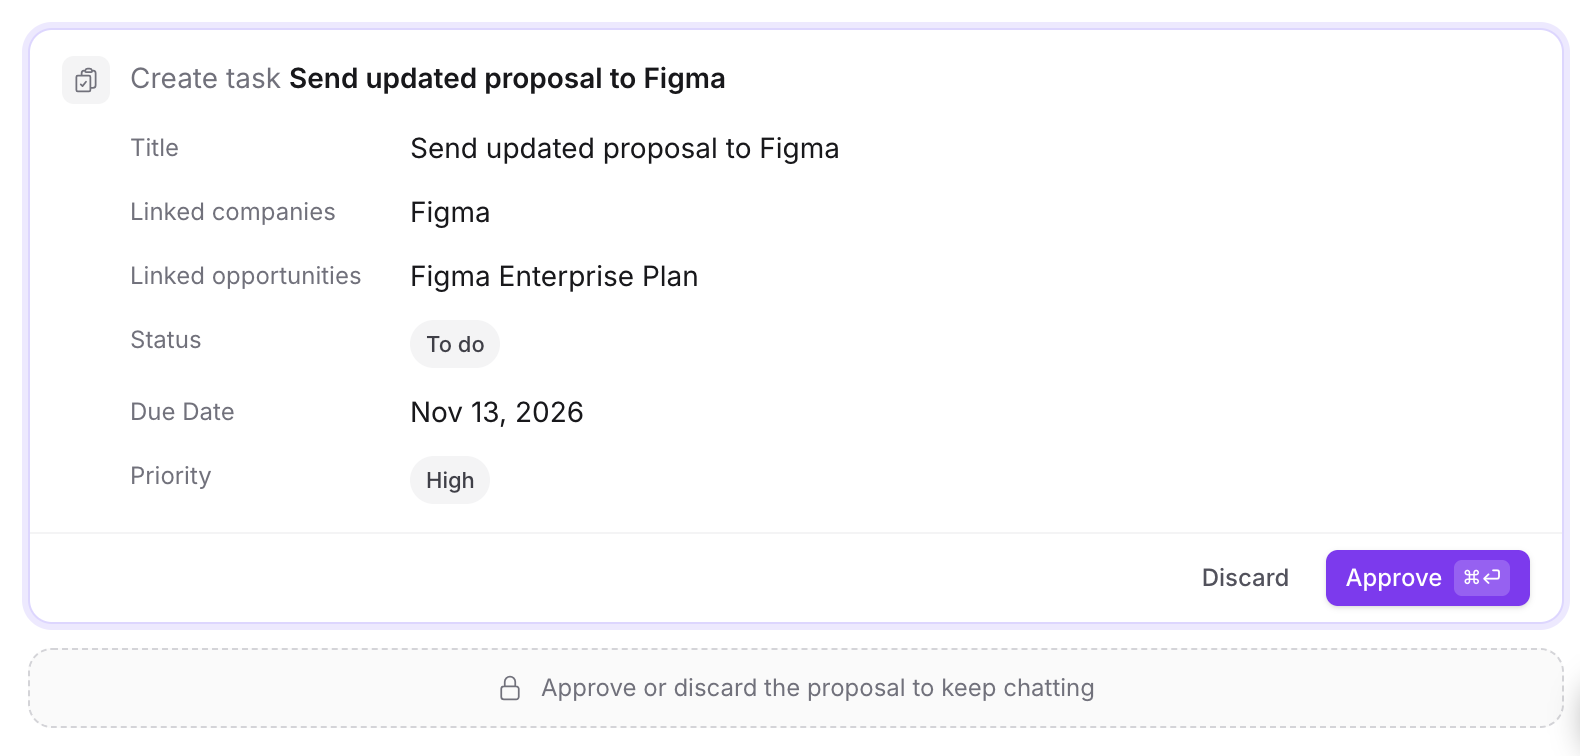
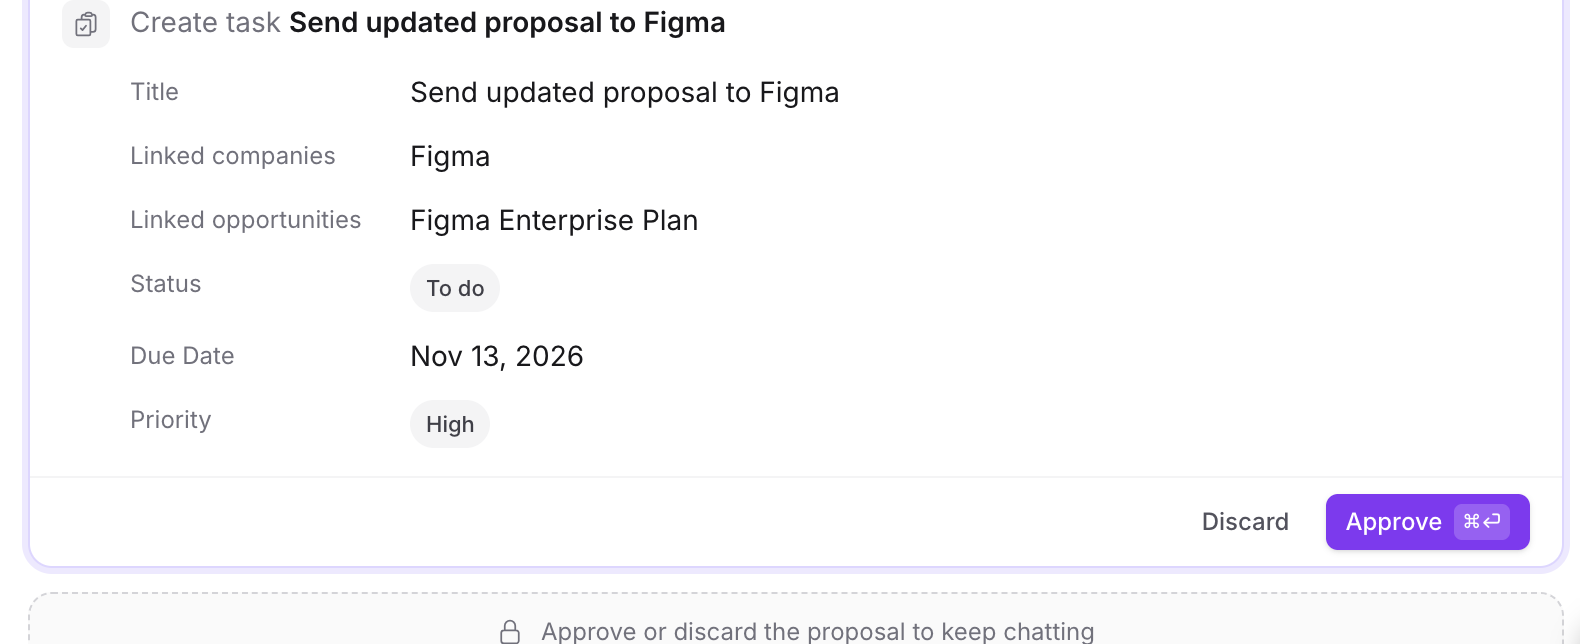
feat(chat): drop the locked line under a docked proposal
The dock already takes the message box's place and holds focus, so the
dashed "Approve or discard the proposal to keep chatting" line repeated it.
The app, every marketing mock (rela-locked is deleted), the help article and
its screenshot, and the chat rules no longer show it.

diff --git a/tests/Browser/Chat/ProposalDockLockTest.php b/tests/Browser/Chat/ProposalDockLockTest.php
@@ -70,24 +70,24 @@ function lockTestCompanies(array $conversation, array $names): array
     );
 }
 
-/** @return array{locked: bool, editor: bool} */
+/** @return array{docked: bool, editor: bool} */
 function lockTestVisibility(mixed $page, string $context = 'conversation'): array
 {
+    $dock = LOCK_TEST_DOCK;
+
     return $page->script(<<<JS
         (() => {
             const shown = (el) => el !== null && el.offsetParent !== null;
-            const editor = document.querySelector('[data-chat-context="{$context}"] [contenteditable="true"]');
-            const area = editor.closest('.border-t');
 
             return {
-                locked: shown(area.querySelector('[data-composer-locked]')),
-                editor: shown(editor),
+                docked: shown(document.querySelector('[data-chat-context="{$context}"] {$dock}')),
+                editor: shown(document.querySelector('[data-chat-context="{$context}"] [contenteditable="true"]')),
             };
         })();
     JS);
 }
 
-it('shows the locked line while a proposal waits and removes it after a decision', function (): void {
+it('hides the message box while a proposal waits and brings it back after a decision', function (): void {
     $conversation = lockTestConversation();
     $company = lockTestCompanies($conversation, ['Northwind Traders'])[0];
     $company->update(['turn_id' => null]);
@@ -95,9 +95,9 @@ it('shows the locked line while a proposal waits and removes it after a decision
     $page = ChatBrowser::logIn($conversation['user'], $conversation['workspace']->slug, $conversation['conversationId'])
         ->resize(1440, 900)
         ->assertSee('Northwind Traders')
-        ->assertSee('Approve or discard the proposal to keep chatting');
+        ->assertDontSee('Approve or discard the proposal to keep chatting');
 
-    expect(lockTestVisibility($page))->toBe(['locked' => true, 'editor' => false]);
+    expect(lockTestVisibility($page))->toBe(['docked' => true, 'editor' => false]);
 
     $page->assertSeeIn('[wire\:click="createCurrent"]', 'Approve')
         ->click('[wire\:click="createCurrent"]')
@@ -105,7 +105,7 @@ it('shows the locked line while a proposal waits and removes it after a decision
 
     $page->wait(0.5);
 
-    expect(lockTestVisibility($page))->toBe(['locked' => false, 'editor' => true])
+    expect(lockTestVisibility($page))->toBe(['docked' => false, 'editor' => true])
         ->and($company->fresh()->status)->toBe(PendingActionStatus::Approved);
 
     $page->assertNoJavaScriptErrors();
@@ -184,7 +184,7 @@ it('ignores Cmd+Enter on an email, a delete and a plan with a draft in the box',
 
     $page = ChatBrowser::logIn($conversation['user'], $conversation['workspace']->slug, $conversation['conversationId'])
         ->resize(1440, 900)
-        ->assertSee('Approve or discard the proposal to keep chatting');
+        ->assertVisible(LOCK_TEST_DOCK);
 
     if ($case === 'a plan with a draft in the box') {
         $page->assertVisible('[data-proposal-shortcut]')
@@ -217,7 +217,7 @@ it('ignores Cmd+Enter on an email, a delete and a plan with a draft in the box',
         ->and(Task::query()->withoutGlobalScopes()->whereKey($task->getKey())->exists())->toBeTrue()
         ->and(Company::query()->withoutGlobalScopes()->where('workspace_id', $conversation['workspace']->getKey())->count())->toBe(0);
 
-    expect(lockTestVisibility($page)['locked'])->toBeTrue();
+    expect(lockTestVisibility($page)['docked'])->toBeTrue();
 })->with(['an email', 'a delete', 'a plan with a delete', 'a plan with a draft in the box']);
 
 it('locks the box and approves a plan with Cmd+Enter in the side panel', function (): void {
@@ -234,7 +234,7 @@ it('locks the box and approves a plan with Cmd+Enter in the side panel', functio
         ->click('[data-chat-side-panel] span[title="locked box"]')
         ->assertSee('Approve 2 changes');
 
-    expect(lockTestVisibility($page, 'side-panel'))->toBe(['locked' => true, 'editor' => false]);
+    expect(lockTestVisibility($page, 'side-panel'))->toBe(['docked' => true, 'editor' => false]);
 
     $page->assertSeeIn('[data-chat-side-panel] '.LOCK_TEST_DOCK, 'Approve 2 changes')
         ->keys('[data-chat-side-panel] '.LOCK_TEST_DOCK, 'Control+Enter')
@@ -243,7 +243,7 @@ it('locks the box and approves a plan with Cmd+Enter in the side panel', functio
 
     $page->wait(0.5);
 
-    expect(lockTestVisibility($page, 'side-panel'))->toBe(['locked' => false, 'editor' => true])
+    expect(lockTestVisibility($page, 'side-panel'))->toBe(['docked' => false, 'editor' => true])
         ->and(array_map(fn (PendingAction $step): PendingActionStatus => $step->fresh()->status, $steps))
         ->each->toBe(PendingActionStatus::Approved);
 

diff --git a/packages/Chat/resources/views/livewire/chat/partials/_composer.blade.php b/packages/Chat/resources/views/livewire/chat/partials/_composer.blade.php
@@ -4,12 +4,8 @@
         {{-- Docked pending proposal: a nested Livewire component hosts the active proposal so it can
              render real Filament field editors in place (Phase C). Alpine stays the source of truth for
              whether a proposal is pending and pushes the active id to the card via `proposal:set-active`. --}}
-        {{-- The composer below is hidden while a proposal is docked, and its editor
-             holds focus at that moment, so focus would otherwise fall to <body>: a
-             keyboard user lands at the top of the document with no idea a decision is
-             waiting. tabindex plus the focus on show moves them onto the dock, and
-             role=status announces it to a screen reader (the transcript's own log
-             region is a sibling and does not cover this). --}}
+        {{-- The composer hides while a proposal is docked and its editor held focus,
+             so focus moves onto the dock instead of falling to <body>. --}}
         <div
             x-show="hasPendingProposal"
             x-effect="syncActiveProposal()"
@@ -25,9 +21,8 @@
             x-transition:leave-end="motion-safe:translate-y-1 motion-safe:opacity-0"
             class="mb-3 outline-none"
         >
-            {{-- No visible eyebrow above the card (Attio): the halo marks it as
-                 the pending decision, and the wrapper's aria-label plus the locked
-                 line below announce it to screen readers. --}}
+            {{-- The halo marks the pending decision; the wrapper's aria-label
+                 announces it to screen readers. --}}
             {{-- Bounded, but NOT a scroller: the card scrolls its own steps and keeps
                  the decision buttons pinned. Scrolling here instead would push
                  Approve below the fold on any plan taller than the dock. --}}
@@ -38,17 +33,6 @@
                     wire:key="proposal-dock-{{ $context ?? 'conversation' }}"
                 />
             </div>
-        </div>
-
-        <div
-            x-show="hasPendingProposal"
-            x-cloak
-            role="status"
-            data-composer-locked
-            class="mb-2 flex h-10 items-center justify-center gap-2 rounded-xl border border-dashed border-gray-300 bg-gray-50 px-3 text-xs text-gray-500 dark:border-white/15 dark:bg-white/5 dark:text-gray-400"
-        >
-            <x-heroicon-o-lock-closed class="h-3.5 w-3.5 shrink-0" aria-hidden="true" />
-            <span class="truncate">{{ __('Approve or discard the proposal to keep chatting') }}</span>
         </div>
 
         @include('chat::livewire.chat.partials._banners')

diff --git a/packages/Cloud/resources/views/marketing/partials/ai-playground.blade.php b/packages/Cloud/resources/views/marketing/partials/ai-playground.blade.php
@@ -358,8 +358,6 @@
                                             ><span x-text="kept(@js(__('Approve :count change')), @js(__('Approve :count changes')))">{{ __('Approve :count changes', ['count' => 3]) }}</span></x-cloud::marketing.rela-approve>
                                         </div>
                                     </div>
-
-                                    <x-cloud::marketing.rela-locked/>
                                 </div>
 
                                 <div tabindex="-1" x-ref="batchResult" class="col-start-1 row-start-1 self-start invisible opacity-0 focus-visible:outline-2 focus-visible:outline-offset-2 focus-visible:outline-primary-500" x-bind:class="{ 'invisible opacity-0': undecided.length > 0, '{{ $fade }}': undecided.length === 0 }" data-ai-batch-decided>
@@ -447,8 +445,6 @@
                                             <x-cloud::marketing.rela-approve :label="__('Approve')" x-on:click="decidePerson('created')" x-bind:disabled="thinking" data-ai-create-confirm/>
                                         </div>
                                     </div>
-
-                                    <x-cloud::marketing.rela-locked/>
                                 </div>
 
                                 <div tabindex="-1" x-ref="personcreated" class="invisible col-start-1 row-start-1 self-start focus-visible:outline-2 focus-visible:outline-offset-2 focus-visible:outline-primary-500" x-bind:class="{ 'invisible': person.decision !== 'created' }" data-ai-create-done>

diff --git a/packages/Cloud/tests/Feature/Marketing/PublicPagesTest.php b/packages/Cloud/tests/Feature/Marketing/PublicPagesTest.php
@@ -245,7 +245,7 @@ describe('Hero AI tab: conversation', function () {
         // so assert the label, not a "Update task \"...\"" sentence that a
         // restyle of the row legitimately changes.
         $dock = (new Crawler((string) $response->getContent()))->filter('#hero-dock');
-        expect($dock->text())->toContain('Approve or discard the proposal to keep chatting')
+        expect($dock->text())->not->toContain('Approve or discard the proposal to keep chatting')
             ->and($dock->filter('#hero-approve-btn')->text())->toStartWith('Approve');
         $response->assertSee('Add Sarah Chen');
         $response->assertSee('VP of Engineering');
@@ -288,7 +288,7 @@ describe('Hero AI tab: conversation', function () {
         // approval -- still held.
         $dock = (new Crawler($body))->filter('#hero-dock');
 
-        expect($dock->text())->toContain('Approve or discard the proposal to keep chatting')
+        expect($dock->text())->not->toContain('Approve or discard the proposal to keep chatting')
             ->and($dock->filter('button')->first()->text())->toBe('Discard')
             ->and($dock->filter('#hero-approve-btn')->text())->toStartWith('Approve')
             ->and($body)->toContain("I'll mark it done")

diff --git a/packages/Cloud/tests/Feature/Marketing/ProductPagesTest.php b/packages/Cloud/tests/Feature/Marketing/ProductPagesTest.php
@@ -85,7 +85,7 @@ it('renders the ask playground at the #demo anchor the hero points to', function
     expect($html)->toContain('>'.__('Move').'</span>')
         ->and($html)->toContain(__('Create person'))
         ->and($html)->toContain(__('Approve :count changes', ['count' => 3]))
-        ->and($html)->toContain(__('Approve or discard the proposal to keep chatting'))
+        ->and($html)->not->toContain('Approve or discard the proposal to keep chatting')
         ->and($html)->toContain(__('Discard'))
         ->and($html)->not->toContain('bg-amber-500 text-white');
 });

diff --git a/packages/Cloud/resources/views/marketing/ai-native-crm.blade.php b/packages/Cloud/resources/views/marketing/ai-native-crm.blade.php
@@ -241,7 +241,6 @@
                                     <x-cloud::marketing.rela-approve tabindex="-1" :label="__('Approve')"/>
                                 </div>
                             </div>
-                            <x-cloud::marketing.rela-locked/>
                         </div>
                     </x-cloud::marketing.window>
                 </div>

diff --git a/packages/Cloud/resources/views/marketing/partials/ai-plan-mock.blade.php b/packages/Cloud/resources/views/marketing/partials/ai-plan-mock.blade.php
@@ -61,8 +61,6 @@
                         <x-cloud::marketing.rela-approve tabindex="-1" :label="__('Approve :count changes', ['count' => count($steps)])"/>
                     </div>
                 </div>
-
-                <x-cloud::marketing.rela-locked/>
             </div>
         </div>
     </x-cloud::marketing.chat-window>

diff --git a/packages/Cloud/resources/views/marketing/partials/ai-email-mock.blade.php b/packages/Cloud/resources/views/marketing/partials/ai-email-mock.blade.php
@@ -47,7 +47,6 @@
                     <x-cloud::marketing.rela-approve tabindex="-1" :label="__('Send email')" :shortcut="false"/>
                 </div>
             </div>
-            <x-cloud::marketing.rela-locked/>
         </div>
     </x-cloud::marketing.chat-window>
 </div>

diff --git a/packages/Cloud/resources/views/marketing/home/partials/hero-agent-composer.blade.php b/packages/Cloud/resources/views/marketing/home/partials/hero-agent-composer.blade.php
@@ -89,8 +89,6 @@
                     <x-cloud::marketing.rela-approve id="hero-approve-btn" tabindex="-1" label="Approve"/>
                 </div>
             </div>
-
-            <x-cloud::marketing.rela-locked/>
         </div>
 
         <div class="mcp-el mcp-input w-full">

diff --git a/packages/Cloud/resources/views/marketing/home/partials/rela-mock.blade.php b/packages/Cloud/resources/views/marketing/home/partials/rela-mock.blade.php
@@ -170,8 +170,6 @@
                     />
                 </div>
             </x-cloud::marketing.window>
-
-            <x-cloud::marketing.rela-locked/>
         </div>
 
         <div class="col-start-1 row-start-1 self-start space-y-3">

diff --git a/packages/Documentation/resources/content/help/ai-assistant/approve-what-the-assistant-changes.md b/packages/Documentation/resources/content/help/ai-assistant/approve-what-the-assistant-changes.md
@@ -11,7 +11,7 @@ Acme", "move this deal to Negotiation", "delete these three notes"), it never
 writes to your CRM directly. It drafts the change as a proposal card where
 the message box was, and waits. Approve or discard it to keep chatting.
 
-![A proposal card for "Create task Send updated proposal to Figma", listing its title, linked company and opportunity, status, due date and priority, with Discard and Approve buttons above the line "Approve or discard the proposal to keep chatting"](/help-assets/ai-assistant/approve-what-the-assistant-changes-1.png)
+![A proposal card for "Create task Send updated proposal to Figma", listing its title, linked company and opportunity, status, due date and priority, with Discard and Approve buttons](/help-assets/ai-assistant/approve-what-the-assistant-changes-1.png)
 
 ## The proposal card
 
@@ -79,8 +79,8 @@ button too: **Send invitation**. Approving a plan never sends it.
 
 ## Proposals don't wait forever
 
-- While a proposal waits, the message box is locked. Approve or discard it to
-  keep chatting.
+- While a proposal waits, the card takes the message box's place. Approve or
+  discard it to keep chatting.
 - An untouched proposal expires after 24 hours and its line reads
   **expired**. If it is the most recent, **Propose again** gets a fresh card.
 - You can't regenerate an answer while its proposal is pending. Resolve the

diff --git a/.ai/rules/chat.md b/.ai/rules/chat.md
@@ -141,9 +141,8 @@ who clicked Discard to dismiss the card rejected a record the card reported as c
   activity ids it rendered in `$shownOverwrites`, and an approval that would overwrite an edit the
   card never showed is refused once, writing nothing, so the next render shows it.
   `tests/Feature/Chat/ProposalCardLifecycleTest.php` ("an edit made after the proposal").
-- While a proposal is pending the message box is locked: the dock sits where the input was, over
-  the line "Approve or discard the proposal to keep chatting" (`_composer.blade.php`,
-  `data-composer-locked`). The user decides before typing again. `tests/Browser/Chat/ProposalDockLockTest.php`.
+- While a proposal is pending the message box is hidden and the dock sits where the input was
+  (`_composer.blade.php`). The user decides before typing again. `tests/Browser/Chat/ProposalDockLockTest.php`.
 
 ## The x leaves a field out at approval time, never from action_data
 Each excludable field row of a single-record card carries a leave-out x
